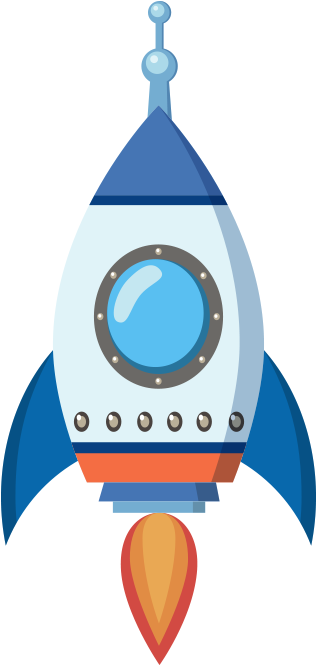
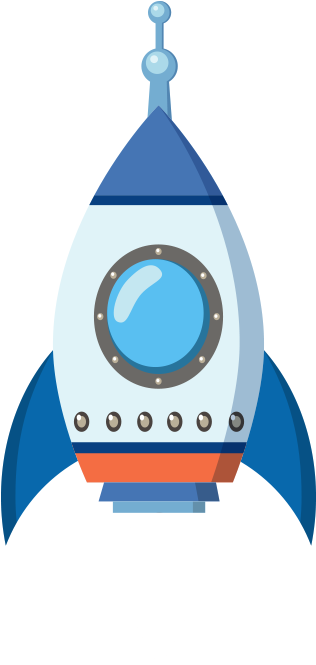
flames displayed properly

Changed region(s): [[0.3703, 0.7519, 0.6266, 1.0]]

diff --git a/main.js b/main.js
@@ -7,7 +7,8 @@ const ship = {
 		let torque = ui.pkey('D').down - ui.pkey('A').down;
 
 		let acc = angv(this.dir, ui.pkey(' ').down);
-		acc = vadd(acc, angv(this.dir + Math.PI / 2, 0.75 * torque));
+		acc = vadd(acc, angv(this.dir + torque * (Math.PI / 10), torque && 0.75));
+
 		this.pos = vadd(this.pos, vscl(ts, this.vel));
 		this.vel = vadd(this.vel, vscl(ts, acc));
 
@@ -18,16 +19,23 @@ const ship = {
 	draw: function () {
 		ctx.beginPath();
 		ctx.fillStyle = 'white';
-		drawImage(
-			images[ui.pkey(' ').down ? 'rocket' : 'rocket_nf'],
-			...arr(negy(this.pos)), 1, 2, this.dir);
+		drawImage(images['rocket'], ...arr(negy(this.pos)), 1, 2, this.dir);
+
+		const rotdir = ui.pkey('D').down - ui.pkey('A').down;
+		if (rotdir != 0)
+			drawImage(images['flame'], ...arr(negy(this.pos)), 1, 2, this.dir + (Math.PI / 10) * rotdir);
+
+		if (ui.pkey(' ').down)
+			drawImage(images['flame'], ...arr(negy(this.pos)), 1, 2, this.dir);
+
+
 		ctx.fill();
 	}
 };
 
 const world = {
 	cam_pos: v(0),
-	stars: genStars(500),
+	stars: genStars(300),
 	update: function (timestep) {
 		ship.update(timestep);
 
@@ -51,8 +59,8 @@ const world = {
 			const pos_mod = (a, b) => (b + a % b) % b;
 
 			ctx.beginPath();
-			let xc = pos_mod(s.x - this.cam_pos.x, 2 * gdims.x) - gdims.x;
-			let yc = pos_mod(s.y - this.cam_pos.y, 2 * gdims.y) - gdims.y;
+			let xc = pos_mod(s.x - this.cam_pos.x, 1.5 * gdims.x) - gdims.x * .75;
+			let yc = pos_mod(s.y - this.cam_pos.y, 1.5 * gdims.y) - gdims.y * .75;
 			ctx.arc(xc, yc, s.r, 0, 2 * Math.PI);
 
 			ctx.fill();
@@ -80,18 +88,17 @@ const world = {
 	}
 };
 
-let start, previousTimeStamp;
-let fps;
+let prevts, fps;
 function step(timestamp) {
 	ctx.fillStyle = 'rgb(0,0,0)';
 	ctx.fillRect(...arr(vscl(-.5, gdims)), ...arr(gdims));
 
 	timestamp /= 1000;
-	if (start === undefined) {
-		start = timestamp;
+	if (prevts === undefined) {
+		prevts = timestamp;
 	}
-	const timestep = timestamp - start;
-	start = timestamp;
+	const timestep = timestamp - prevts;
+	prevts = timestamp;
 	fps = 1 / timestep;
 
 	world.update(timestep);
@@ -106,8 +113,8 @@ function genStars(n) {
 	let stars = [];
 	for (let i = 0; i < n; i++) {
 		stars.push({
-			x: gdims.x * 2 * Math.random(),
-			y: gdims.y * 2 * Math.random(),
+			x: gdims.x * 1.5 * Math.random(),
+			y: gdims.y * 1.5 * Math.random(),
 			r: Math.pow(10 * Math.random(), 1 / 3) / 50,
 		});
 	}

diff --git a/loader.js b/loader.js
@@ -2,7 +2,7 @@ images = {}
 
 for(const filename of [
 	"rocket",
-	"rocket_nf"
+	"flame"
 ]) {
 	let img = new Image();
 	img.src = `assets/${filename}.png`;
